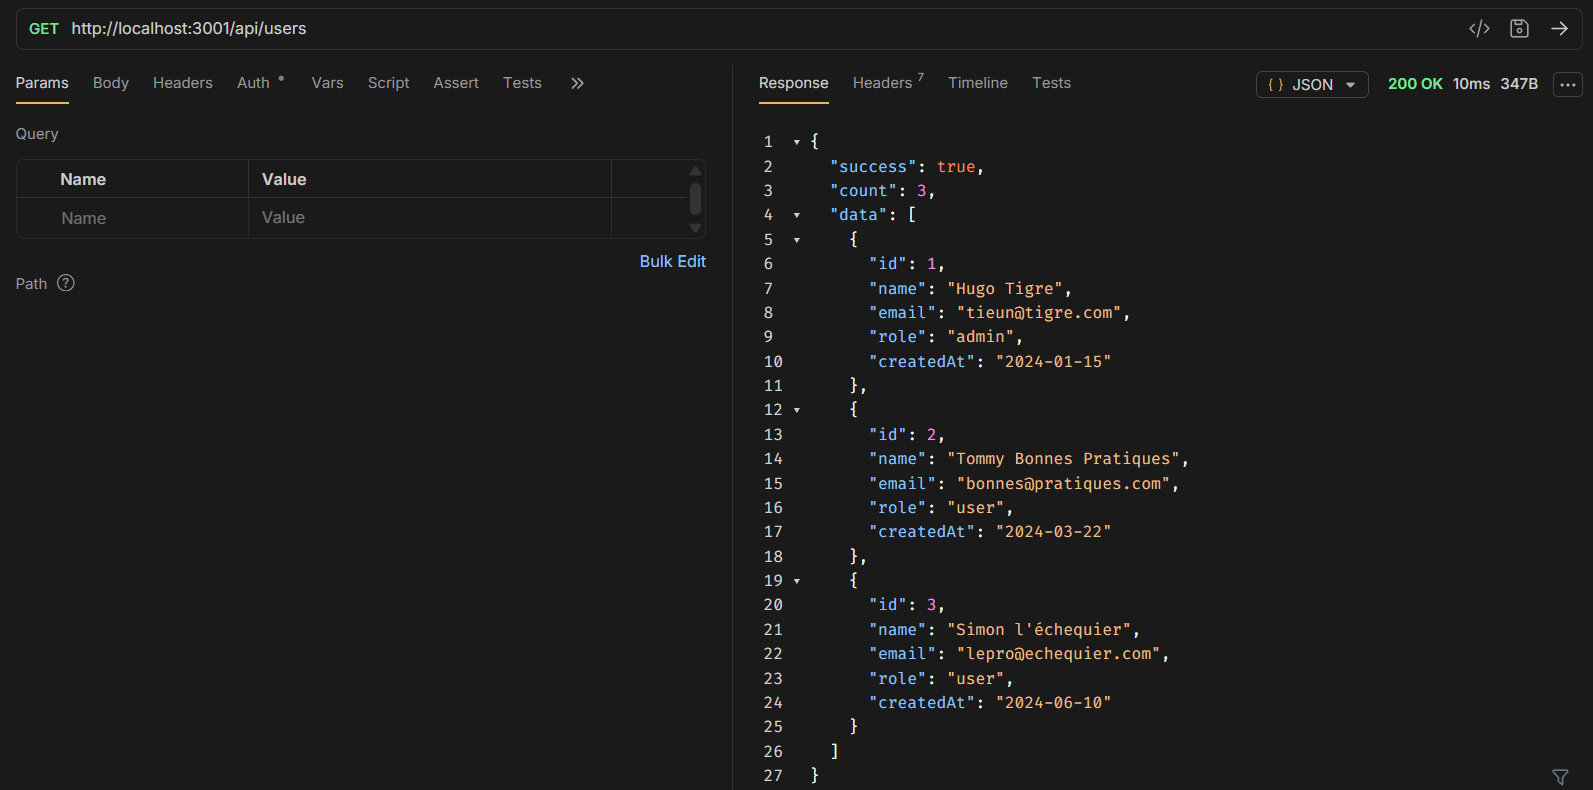
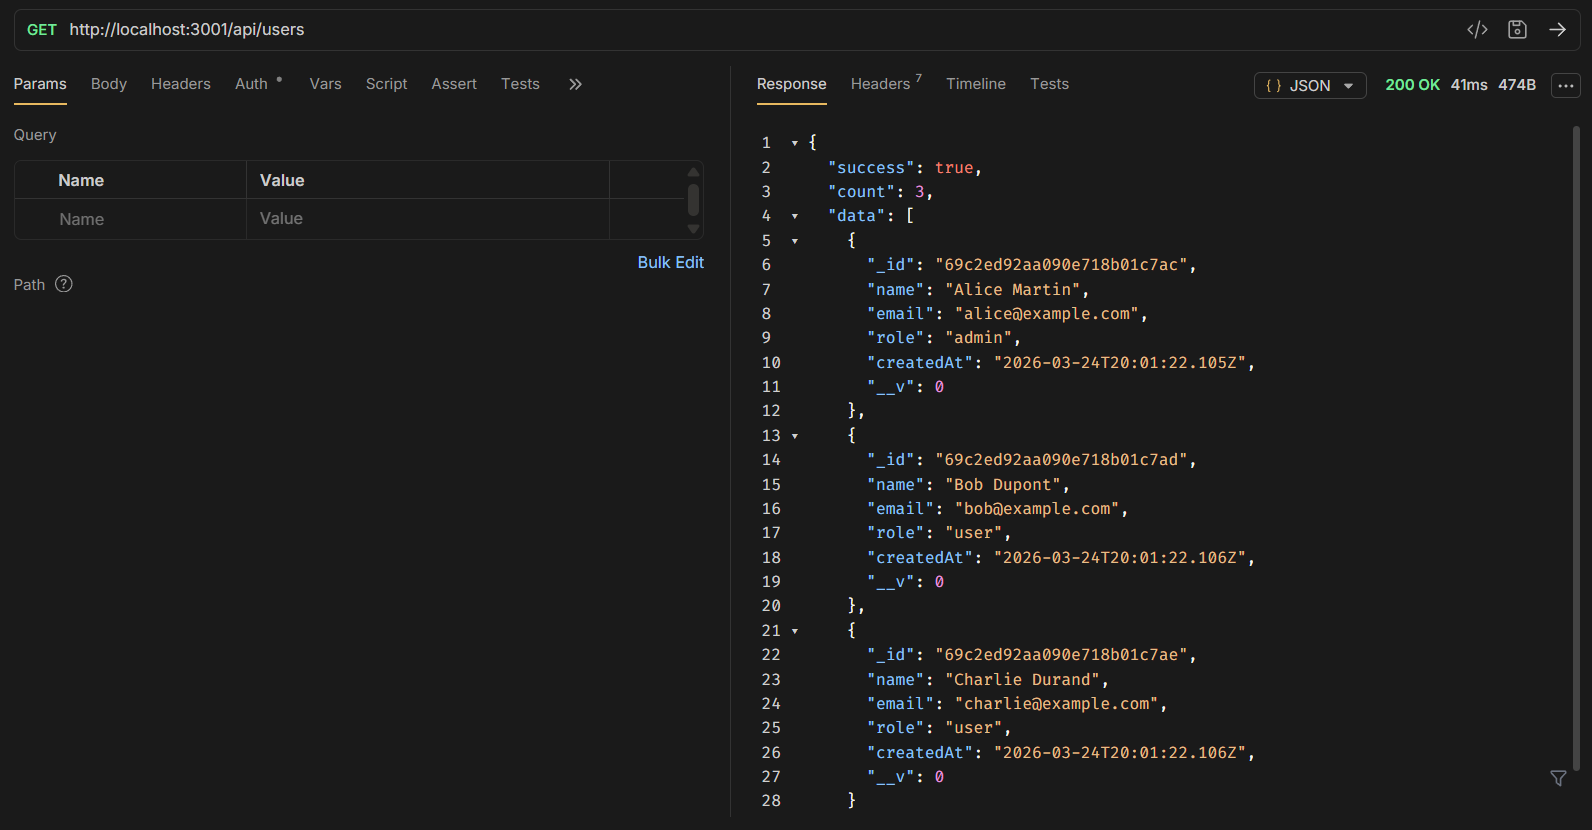
(TP3_Partie_4): test with bruno

diff --git a/backend/README.md b/backend/README.md
@@ -243,3 +243,62 @@ DELETE http://localhost:3001/api/users/9999
 ![DELETE /api/users/9999 → doit retourner 404](./screenshots/DELETE_404.png)
 
 ---
+
+## 4. Tests et Validation des API
+
+Cette section détaille les tests fonctionnels réalisés pour valider les routes de l'API ainsi que la robustesse de la gestion des erreurs avec MongoDB.
+
+---
+
+### 4.1 — Scénario de test complet (Happy Path)
+Ce scénario suit le cycle de vie standard d'une ressource utilisateur, de sa création à sa suppression.
+
+| Étape | Méthode | Route | Résultat attendu | Capture d'écran |
+| :--- | :---: | :--- | :--- | :--- |
+| **1** | `GET` | `/api/users` | Liste initiale (3 users via seed) | ![GET All Initial](./screenshots/get_3_200.png) |
+| **2** | `POST` | `/api/users` | Création réussie (Code 201 + `_id`) | ![POST User](./screenshots/post_200.png) |
+| **3** | `GET` | `/api/users/:id` | Récupération par ID (Nom conforme) | ![GET By ID](./screenshots/get_id_200.png) |
+| **4** | `PUT` | `/api/users/:id` | Modification du champ (Code 200) | ![PUT User](./screenshots/put_200.png) |
+| **5** | `GET` | `/api/users` | Vérification du compte (count: 4) | ![GET All Final](./screenshots/get_4_200.png) |
+| **6** | `DELETE`| `/api/users/:id` | Suppression réussie (Code 204) | ![DELETE User](./screenshots/delete_200.png) |
+| **7** | `GET` | `/api/users/:id` | Vérification finale (Code 404) | ![GET 404 After Delete](./screenshots/get_id_404.png) |
+
+---
+
+### 4.2 — Tests des cas d'erreur MongoDB
+Validation des mécanismes de sécurité et de gestion d'erreurs du serveur.
+
+#### ❌ Conflit d'email (Doublon)
+* **Action :** `POST` avec un email déjà existant en base de données.
+* **Attendu :** Code `409 Conflict`.
+* ![Erreur 409 - Email existant](./screenshots/post_409.png)
+
+#### ❌ Format d'ID invalide
+* **Action :** `GET` avec un ID malformé (ex: `123`).
+* **Attendu :** Code `400 Bad Request` (ObjectId invalide).
+* ![Erreur 400 - ID Invalide](./screenshots/get_id_400.png)
+
+#### ❌ ID Introuvable
+* **Action :** `GET` avec un ID au format valide mais inexistant (`000000000000000000000000`).
+* **Attendu :** Code `404 Not Found`.
+* ![Erreur 404 - ID Inexistant](./screenshots/get_id_404_2.png)
+
+---
+
+### 4.3 — Test de persistance ⭐
+Ce test valide l'objectif principal : la sauvegarde réelle des données dans MongoDB.
+
+1. **Étape 1 : Création de l'utilisateur**
+   * Exécution d'un `POST` et récupération de l'_id généré.
+   * ![Étape 1 - Création](./screenshots/test_persistence_1.png)
+
+2. **Étape 2 : Redémarrage du serveur**
+   * Arrêt manuel (`Ctrl+C`) et relance avec `node server.js`.
+   * ![Étape 2 - Redémarrage serveur](./screenshots/test_persistence_2.png)
+
+3. **Étape 3 : Vérification de la persistance**
+   * Requête `GET /api/users/:id` avec l'ID précédemment créé.
+   * **Résultat attendu :** L'utilisateur est toujours récupéré avec succès.
+   * ![Étape 3 - Données persistées](./screenshots/test_persistence_3.png)
+
+---
